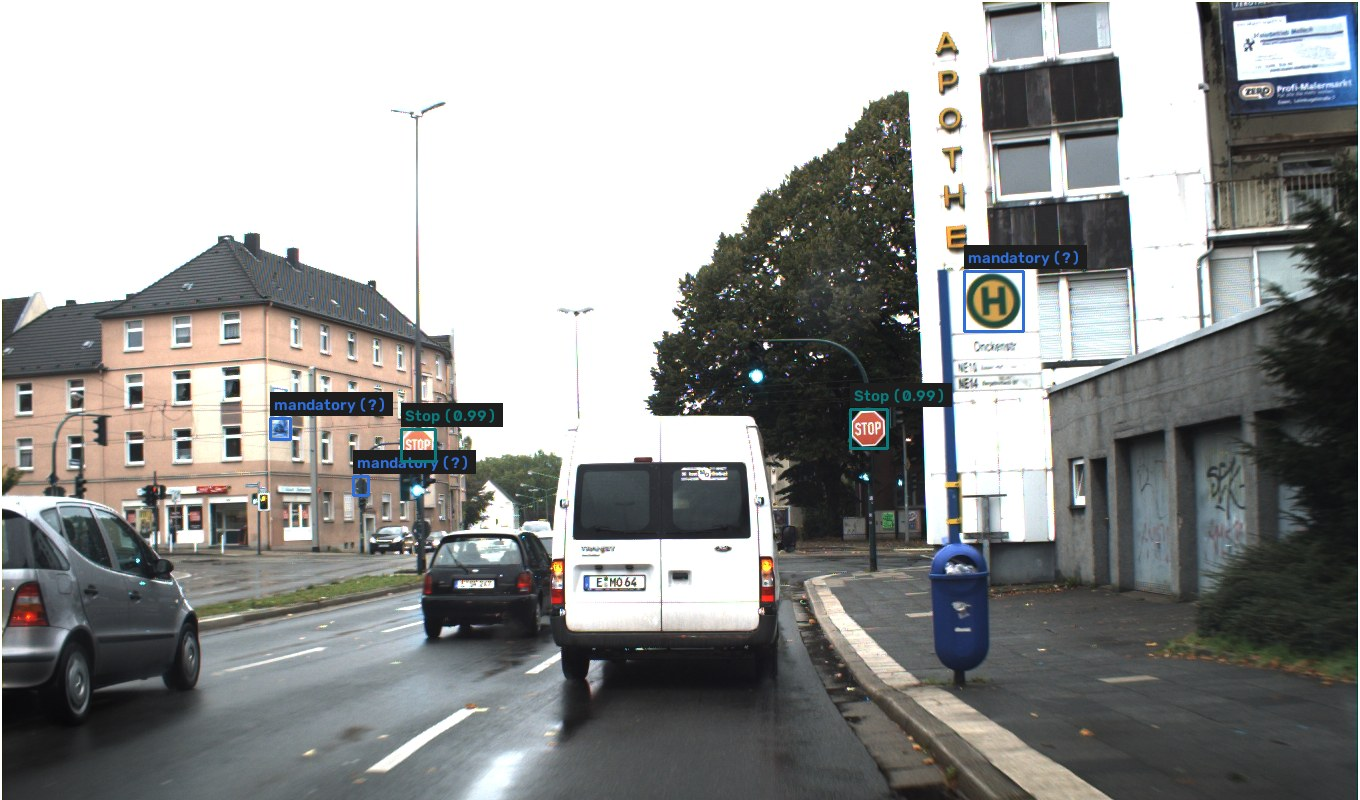
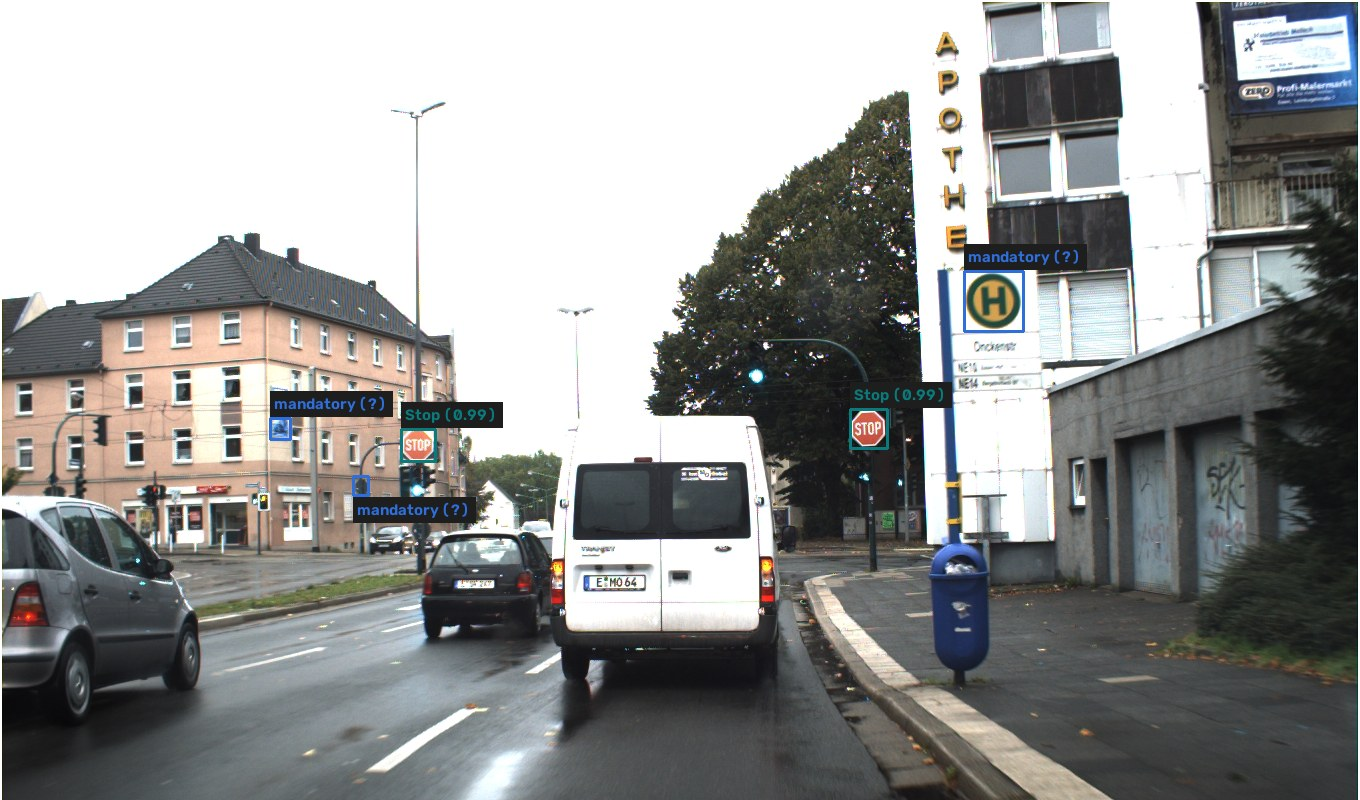
feat: remove duplicate boxes across families (false alarms 22 -> 21, no loss)

Changed region(s): [[0.2471, 0.5625, 0.3706, 0.6562], [0.1853, 0.5, 0.3706, 0.5312], [0.7103, 0.3125, 0.8029, 0.3438]]

diff --git a/src/roadsigns/pipeline.py b/src/roadsigns/pipeline.py
@@ -30,6 +30,7 @@ import torch
 from roadsigns.classification.data import crop_and_resize, preprocess_crop
 from roadsigns.classification.model import TrafficSignCNN
 from roadsigns.datasets.gtsdb import CLASS_NAMES, NUM_CLASSES, SUPER_CATEGORIES, super_category_id
+from roadsigns.evaluation.matching import iou
 
 REPO_ROOT = Path(__file__).resolve().parents[2]
 DEFAULT_DETECTOR = REPO_ROOT / "models" / "weights" / "detector_v1_quick.pt"
@@ -109,6 +110,7 @@ class RoadSignPipeline:
         det_conf: float = 0.25,
         cnn_conf: float = 0.60,
         imgsz: int = 1024,
+        merge_iou: float | None = 0.6,
     ) -> None:
         detector_weights, classifier_weights = Path(detector_weights), Path(classifier_weights)
         for p, what in ((detector_weights, "detector"), (classifier_weights, "classifier")):
@@ -119,6 +121,7 @@ class RoadSignPipeline:
 
         self.device = resolve_device(device)
         self.det_conf, self.cnn_conf, self.imgsz = det_conf, cnn_conf, imgsz
+        self.merge_iou = merge_iou  # None/0 = keep every detector box (behaviour before 2026-11-23)
         self.detector = YOLO(str(detector_weights))
         self.detector_names = {int(k): v for k, v in self.detector.names.items()}
         unknown = set(self.detector_names.values()) - set(SUPER_CATEGORIES)
@@ -156,8 +159,12 @@ class RoadSignPipeline:
         boxes = det.boxes.xyxy.cpu().numpy().round().astype(int)
         det_confs = det.boxes.conf.cpu().numpy()
         det_cls = det.boxes.cls.cpu().numpy().astype(int)
+        # One sign can get two boxes of different families (e.g. "other" + "prohibitory"):
+        # keep only the most confident one (class-agnostic suppression).
+        order = merge_overlapping(boxes, det_confs, getattr(self, "merge_iou", None))
         crops, kept = [], []
-        for i, (x1, y1, x2, y2) in enumerate(boxes):
+        for i in order:
+            x1, y1, x2, y2 = boxes[i]
             try:
                 crops.append(crop_and_resize(image_bgr, (int(x1), int(y1), int(x2), int(y2))))
                 kept.append(i)
@@ -210,6 +217,40 @@ class RoadSignPipeline:
             cv2.rectangle(out, (lx, ly), (lx + lw, ly + lh), (30, 30, 30), -1)
             cv2.putText(out, d.label, (lx + 4, ly + th + 4), font, font_scale, color, 2, cv2.LINE_AA)
         return out
+
+
+def merge_overlapping(boxes, confidences, merge_iou: float | None = 0.6,
+                      containment: float = 0.85) -> list[int]:
+    """Indices of the boxes to keep, most confident first.
+
+    A box is dropped when a MORE confident box covers the same sign, whatever their
+    families: IoU above ``merge_iou``, or one box lying almost entirely inside the
+    other (intersection / smaller area above ``containment``). ``merge_iou`` None or
+    <= 0 keeps every box.
+    """
+    order = sorted(range(len(boxes)), key=lambda i: -float(confidences[i]))
+    if not merge_iou or merge_iou <= 0:
+        return order
+    kept: list[int] = []
+    for i in order:
+        a = tuple(float(v) for v in boxes[i])
+        duplicate = False
+        for j in kept:
+            b = tuple(float(v) for v in boxes[j])
+            if iou(a, b) > merge_iou or _containment(a, b) > containment:
+                duplicate = True
+                break
+        if not duplicate:
+            kept.append(i)
+    return kept
+
+
+def _containment(a, b) -> float:
+    """Intersection area / area of the smaller box (1.0 = one box is inside the other)."""
+    iw = max(0.0, min(a[2], b[2]) - max(a[0], b[0]))
+    ih = max(0.0, min(a[3], b[3]) - max(a[1], b[1]))
+    smaller = min((a[2] - a[0]) * (a[3] - a[1]), (b[2] - b[0]) * (b[3] - b[1]))
+    return (iw * ih) / smaller if smaller > 0 else 0.0
 
 
 def _overlaps(a: tuple[int, int, int, int], b: tuple[int, int, int, int]) -> bool:

diff --git a/scripts/evaluate_pipeline.py b/scripts/evaluate_pipeline.py
@@ -53,6 +53,8 @@ def parse_args() -> argparse.Namespace:
     p.add_argument("--cnn-conf", type=float, default=0.60)
     p.add_argument("--imgsz", type=int, default=1024)
     p.add_argument("--iou", type=float, default=0.5)
+    p.add_argument("--merge-iou", type=float, default=0.6,
+                   help="drop a box that overlaps a more confident one (any family); 0 = keep all boxes")
     p.add_argument("--device", default="auto")
     p.add_argument("--samples", type=int, default=6, help="annotated images to save (errors first)")
     p.add_argument("--out", type=Path, default=REPO_ROOT / "results/pipeline")
@@ -73,7 +75,8 @@ def main() -> int:
     try:
         raw = parse_gt_file(args.gtsdb_root / "gt.txt")
         pipe = RoadSignPipeline(args.detector, args.classifier, device=args.device,
-                                det_conf=args.det_conf, cnn_conf=args.cnn_conf, imgsz=args.imgsz)
+                                det_conf=args.det_conf, cnn_conf=args.cnn_conf, imgsz=args.imgsz,
+                                merge_iou=args.merge_iou)
     except (FileNotFoundError, ValueError, RuntimeError) as exc:
         logger.error("%s", exc)
         return 1
@@ -142,6 +145,7 @@ def main() -> int:
         "date_utc": datetime.now(timezone.utc).isoformat(timespec="seconds"),
         "detector": args.detector.name, "classifier": args.classifier.name, "device": pipe.device,
         "images": len(images), "det_conf": args.det_conf, "cnn_conf": args.cnn_conf, "iou": args.iou,
+        "merge_iou": args.merge_iou,
         "ground_truth_signs": n_gt, "predicted_boxes": n_pred,
         "detection": {"found": matched, "missed": n_gt - matched, "false_alarms": false_alarms,
                       "recall": ratio(matched, n_gt), "precision": ratio(matched, n_pred)},

diff --git a/tests/test_merge_boxes.py b/tests/test_merge_boxes.py
@@ -1,0 +1,24 @@
+"""Class-agnostic suppression of duplicate detector boxes (pipeline.merge_overlapping)."""
+
+from roadsigns.pipeline import merge_overlapping
+
+
+def test_two_boxes_on_the_same_sign_keep_only_the_most_confident():
+    # 00813 case: "other (?)" and "prohibitory (?)" almost on the same sign
+    boxes = [(1022, 232, 1077, 290), (1024, 230, 1078, 292), (915, 150, 1022, 250)]
+    assert merge_overlapping(boxes, [0.40, 0.55, 0.95]) == [2, 1]
+
+
+def test_box_inside_a_bigger_box_is_dropped():
+    assert merge_overlapping([(0, 0, 100, 100), (10, 10, 60, 60)], [0.9, 0.5]) == [0]
+
+
+def test_neighbour_signs_are_all_kept():
+    stacked = [(915, 150, 1022, 250), (930, 252, 1010, 335)]  # yield above turn-right: touching only
+    assert sorted(merge_overlapping(stacked, [0.9, 0.8])) == [0, 1]
+
+
+def test_merge_can_be_disabled():
+    same = [(0, 0, 10, 10), (0, 0, 10, 10)]
+    assert sorted(merge_overlapping(same, [0.9, 0.8], merge_iou=0)) == [0, 1]
+    assert sorted(merge_overlapping(same, [0.9, 0.8], merge_iou=None)) == [0, 1]
